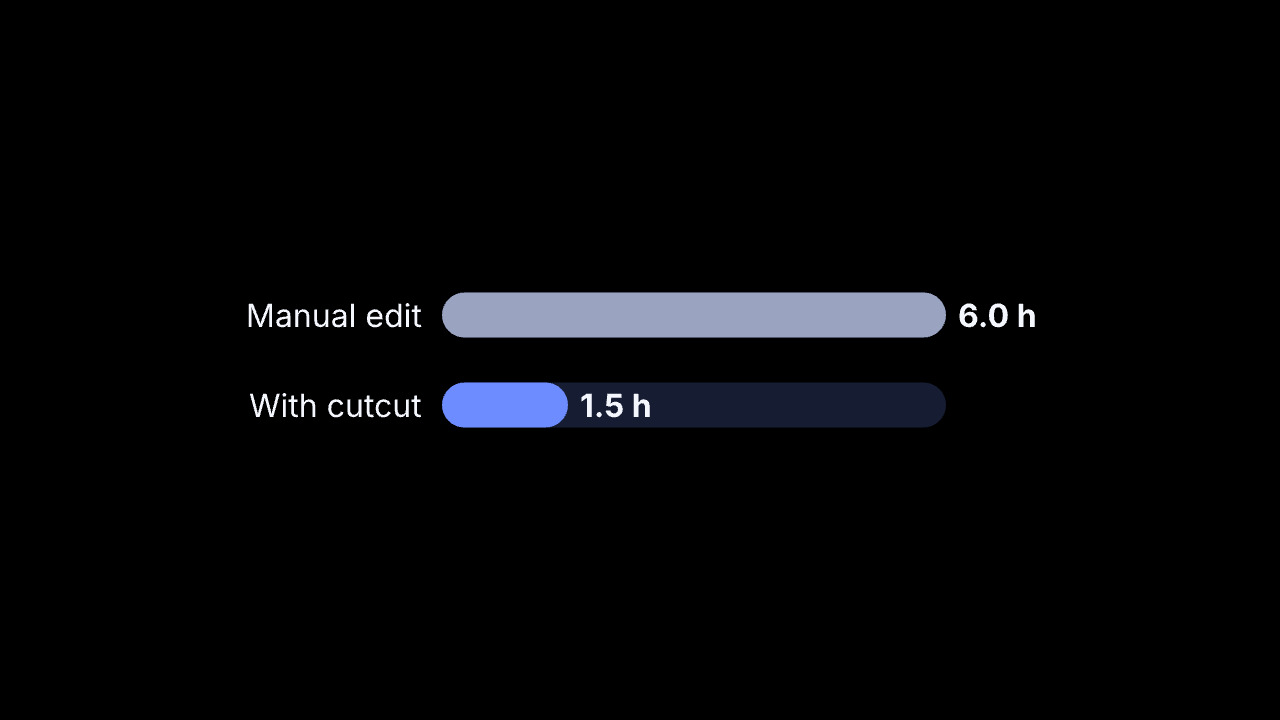
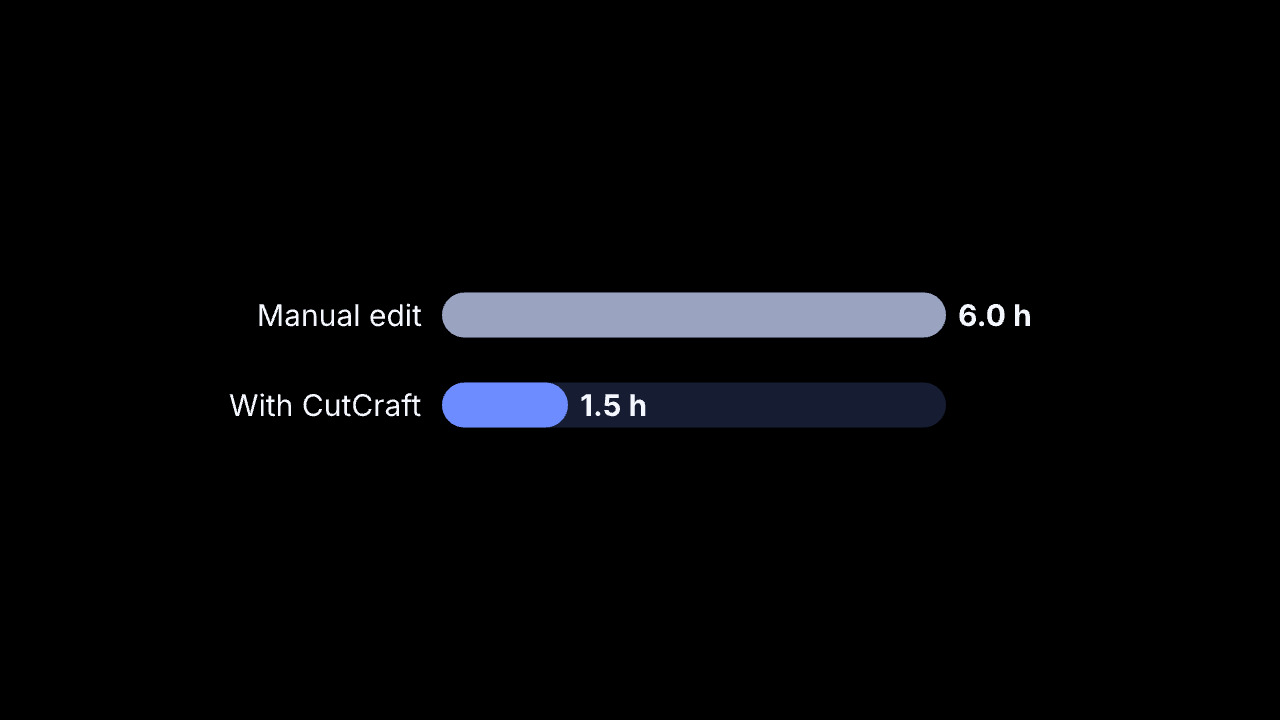
fix(graphics): the comparison example says CutCraft, not the old name
Claude-Session: https://claude.ai/code/session_012cKiJqQVM3TLdE7Mp3cwgv

diff --git a/packages/graphics/src/kinds/data.ts b/packages/graphics/src/kinds/data.ts
@@ -123,7 +123,7 @@ export const comparison = defineKind({
     labelColor: color("$text"),
     font: font("$body"),
   },
-  example: { items: [{ label: "Manual edit", value: 6, color: "$muted" }, { label: "With cutcut", value: 1.5 }], suffix: " h", decimals: 1 },
+  example: { items: [{ label: "Manual edit", value: 6, color: "$muted" }, { label: "With CutCraft", value: 1.5 }], suffix: " h", decimals: 1 },
   size: (p) => (p.orientation === "vertical" ? { width: p.items.length * 160, height: 480 } : { width: 900, height: p.items.length * 90 }),
   draw: (p, ctx) => {
     const W = ctx.width, H = ctx.height, count = p.items.length;

diff --git a/packages/graphics/test/kinds.test.ts b/packages/graphics/test/kinds.test.ts
@@ -102,7 +102,7 @@ describe("graphic kinds", () => {
       expect(trackA).toBe(trackB);
       expect(barA! / barB!).toBeCloseTo(6 / 1.5, 0);
       expect(widths({ max: 12 })[1]! / trackA!).toBeLessThan(0.55);
-      expect(draw("comparison", 2).labels.map((l) => l.text)).toEqual(["Manual edit", "6.0 h", "With cutcut", "1.5 h"]);
+      expect(draw("comparison", 2).labels.map((l) => l.text)).toEqual(["Manual edit", "6.0 h", "With CutCraft", "1.5 h"]);
       expect(draw("comparison", 0, { orientation: "vertical" }).labels.filter((l) => l.text.endsWith(" h")).map((l) => l.text)).toEqual(["0.0 h", "0.0 h"]);
     });
 

diff --git a/docs/reference/graphics/comparison.md b/docs/reference/graphics/comparison.md
@@ -10,7 +10,7 @@ Bars side by side for a few values, each with its label and value, growing over 
     <Graphic
       id="g1"
       kind="comparison"
-      items={[{"label":"Manual edit","value":6,"color":"$muted"},{"label":"With cutcut","value":1.5}]}
+      items={[{"label":"Manual edit","value":6,"color":"$muted"},{"label":"With CutCraft","value":1.5}]}
       suffix=" h"
       decimals={1}
       start={0}
